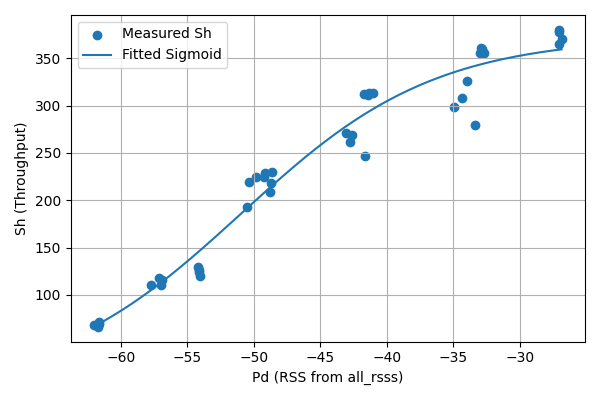
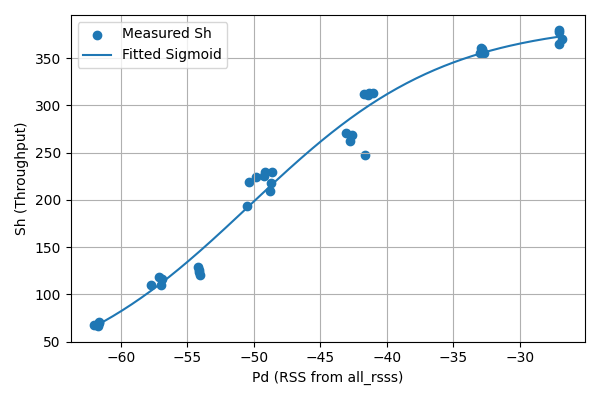
[other]整理更新

diff --git a/Rss_cal_5.py b/Rss_cal_5.py
@@ -8,7 +8,7 @@ from scipy.optimize import curve_fit
 # =====================================
 # 手动指定 P1（单位：dBm）
 # =====================================
-p1_value = -21.95
+p1_value = -28.31
 
 # =====================================
 # 读取用于 α 计算的 Pd（all_rss.csv）
